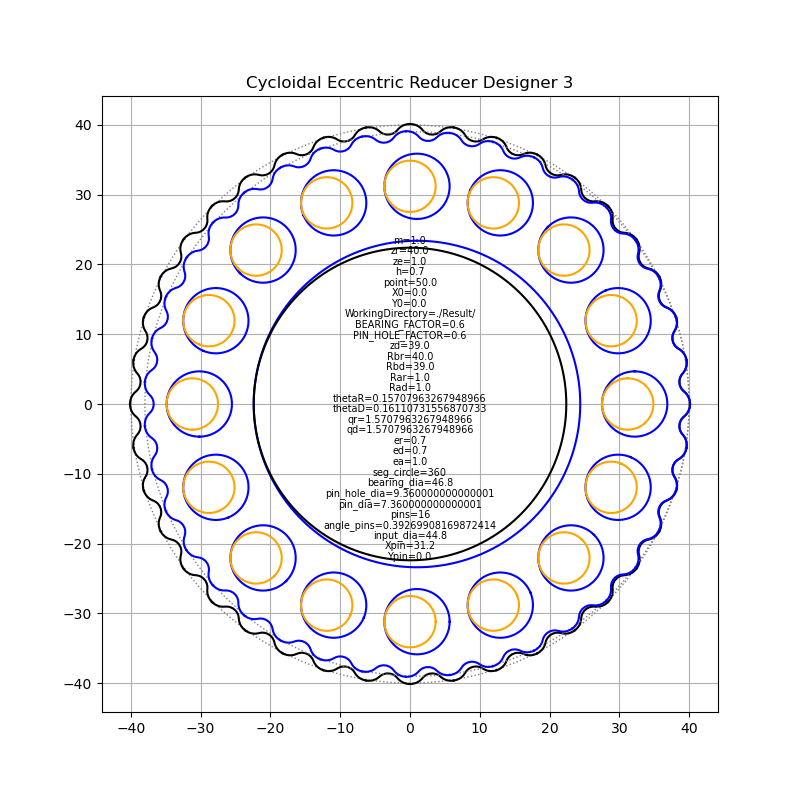
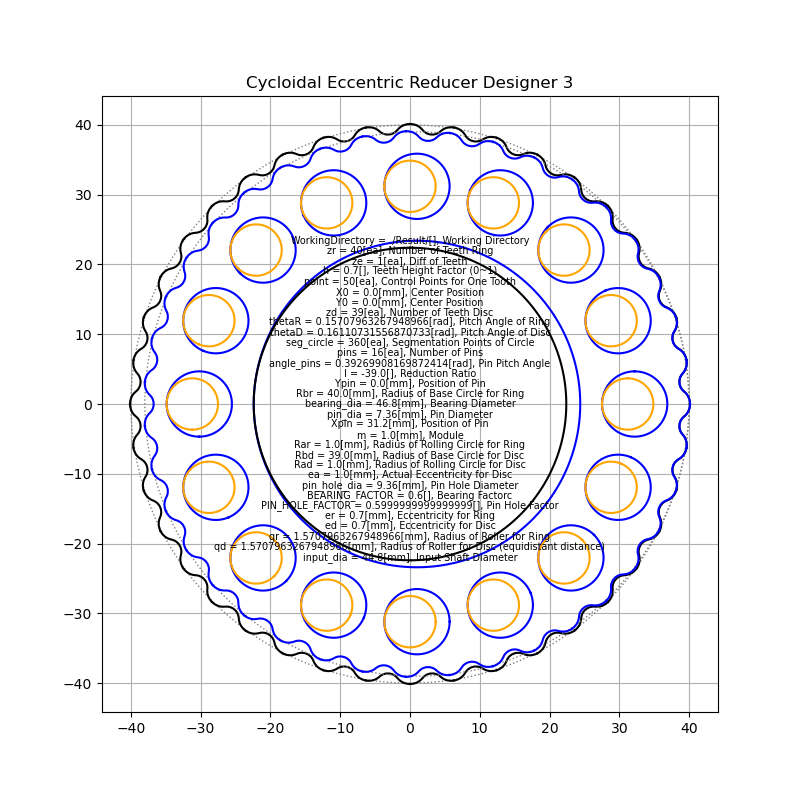
Update README.md and img

Changed region(s): [[0.3125, 0.2812, 0.75, 0.7188]]

diff --git a/README.md b/README.md
@@ -3,14 +3,6 @@ _Cycloidal Eccentric Reducer Designer 3 - with Python3_
 
 
 
-## Reducer Design Example with Solidworks
-
-* Applying Top-Down Design Criteria
-* Youtube : https://youtu.be/mQp8NB-AJ2k
-* Data : `./Example_Solidworks`
-
-
-
 ## Using on PC
 
 * Install python3 and git
@@ -77,7 +69,23 @@ pyinstaller --icon=CRD3.ico -w -F CRD3.py
 * __Y0__ : Center Position
 * __Bearing Size Factor__ : Center Hole Size Factor on Disc
 * __Pin Hole Size Factor__ : Pin Hole Size Factor on Disc
+* __Bearing Diameter__ : Inner Circle's Diameter of Disc
+* __Pin Diameter__ : Pins Diamter
+* __Pin Position__ : Radius of Pins' Pitch Circle
 * __pins__ : Number of PinsPins
+
+### Buttons
+
+* __Mode1__ : Module based Input Mode
+* __Mode2__ : Dimension based Input Mode
+
+## Reducer Design Example with Solidworks
+
+* Applying Top-Down Design Criteria
+* Youtube : https://youtu.be/mQp8NB-AJ2k
+* Data : `./Example_Solidworks`
+
+![](./img/Solidworks.png)
 
 
 ## Thank you!
